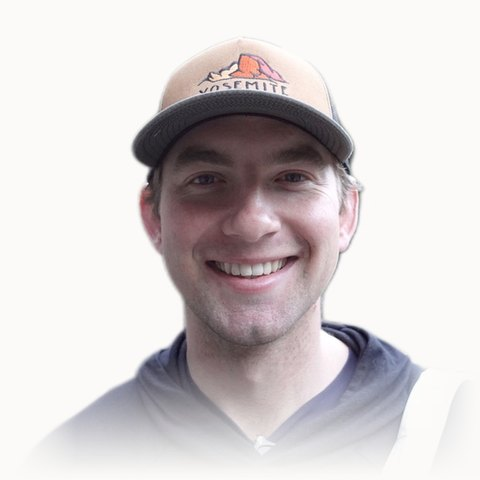
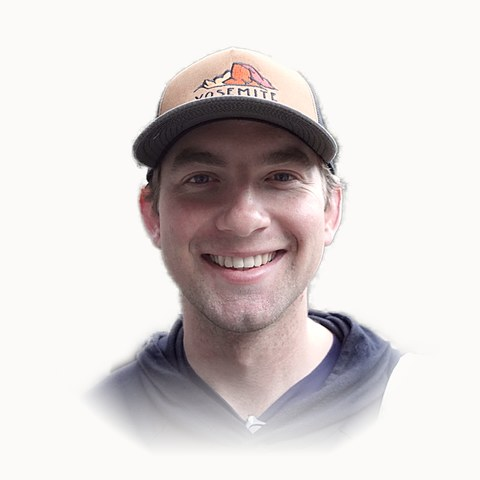
About portrait: retouch (lighter face, warmer tone, clean edges, soft oval fade), 160px
Claude-Session: https://claude.ai/code/session_01NVNx8JMUd866G2UeY63zhF

Changed region(s): [[0.0938, 0.0625, 0.9062, 0.9688], [0.4375, 0.3125, 0.5, 0.375], [0.375, 0.3438, 0.4375, 0.4062]]

diff --git a/index.html b/index.html
@@ -142,7 +142,7 @@ html{scroll-behavior:smooth}
 <h2 style="margin: 0; font-family: 'Newsreader', Georgia, serif; font-weight: 400; font-size: 36px; letter-spacing: -0.02em; line-height: 1.1">Built by one person who hates wasted <em style="font-style: italic">time.</em></h2>
 </div>
 <div style="display: flex; flex-wrap: wrap; gap: 20px; align-items: flex-start">
-<img src="assets/tommy-portrait.jpg" alt="Tommy Italia" width="140" height="140" loading="lazy" style="width: 140px; height: 140px; flex-shrink: 0">
+<img src="assets/tommy-portrait.jpg" alt="Tommy Italia" width="160" height="160" loading="lazy" style="width: 160px; height: 160px; flex-shrink: 0">
 <div style="display: flex; flex-direction: column; gap: 14px; flex: 1 1 260px; min-width: 0">
 <p style="margin: 0; font-size: 18px; line-height: 1.6; color: #3A3D38">I'm Tommy Italia. By day I work a full-time job in San Francisco; nights and weekends I build small tools that each fix one annoying problem.</p>
 <p style="margin: 0; font-size: 18px; line-height: 1.6; color: #3A3D38">I want to make life easier in the simplest way possible: easy to set up, no risk, no hidden agenda. Just a genuine love of learning, and helping people along the way.</p>
